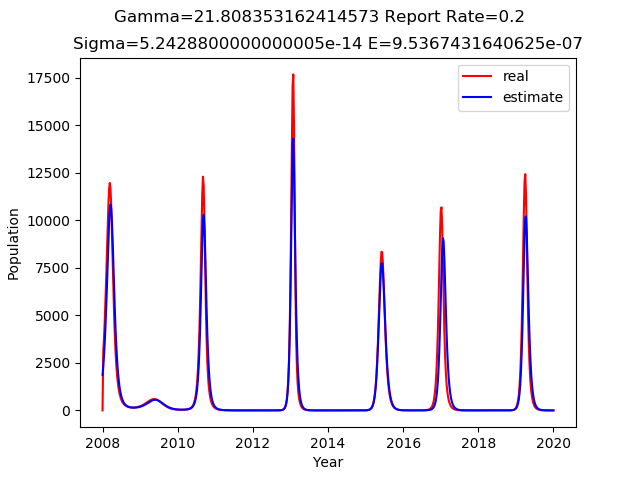
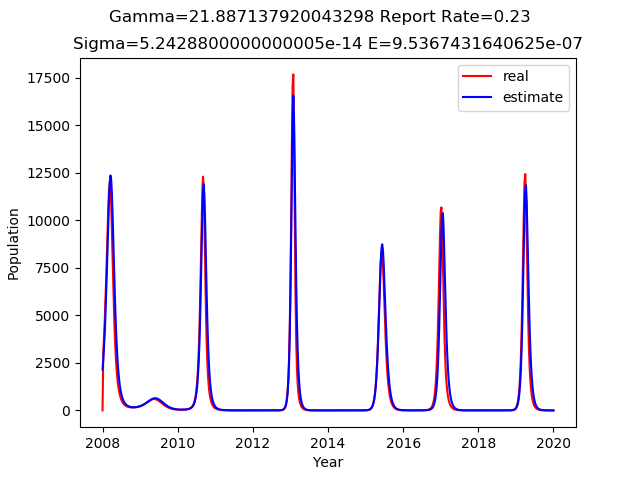
Update SIR-MCMC.py report rate: 0.23

diff --git a/SIR-MCMC.py b/SIR-MCMC.py
@@ -15,7 +15,7 @@ Ratio=0
 GAMMA=[]
 
 global reportRate
-reportRate=0.2
+reportRate=0.23
 global sigma
 sigma=5
 sigma0=sigma
